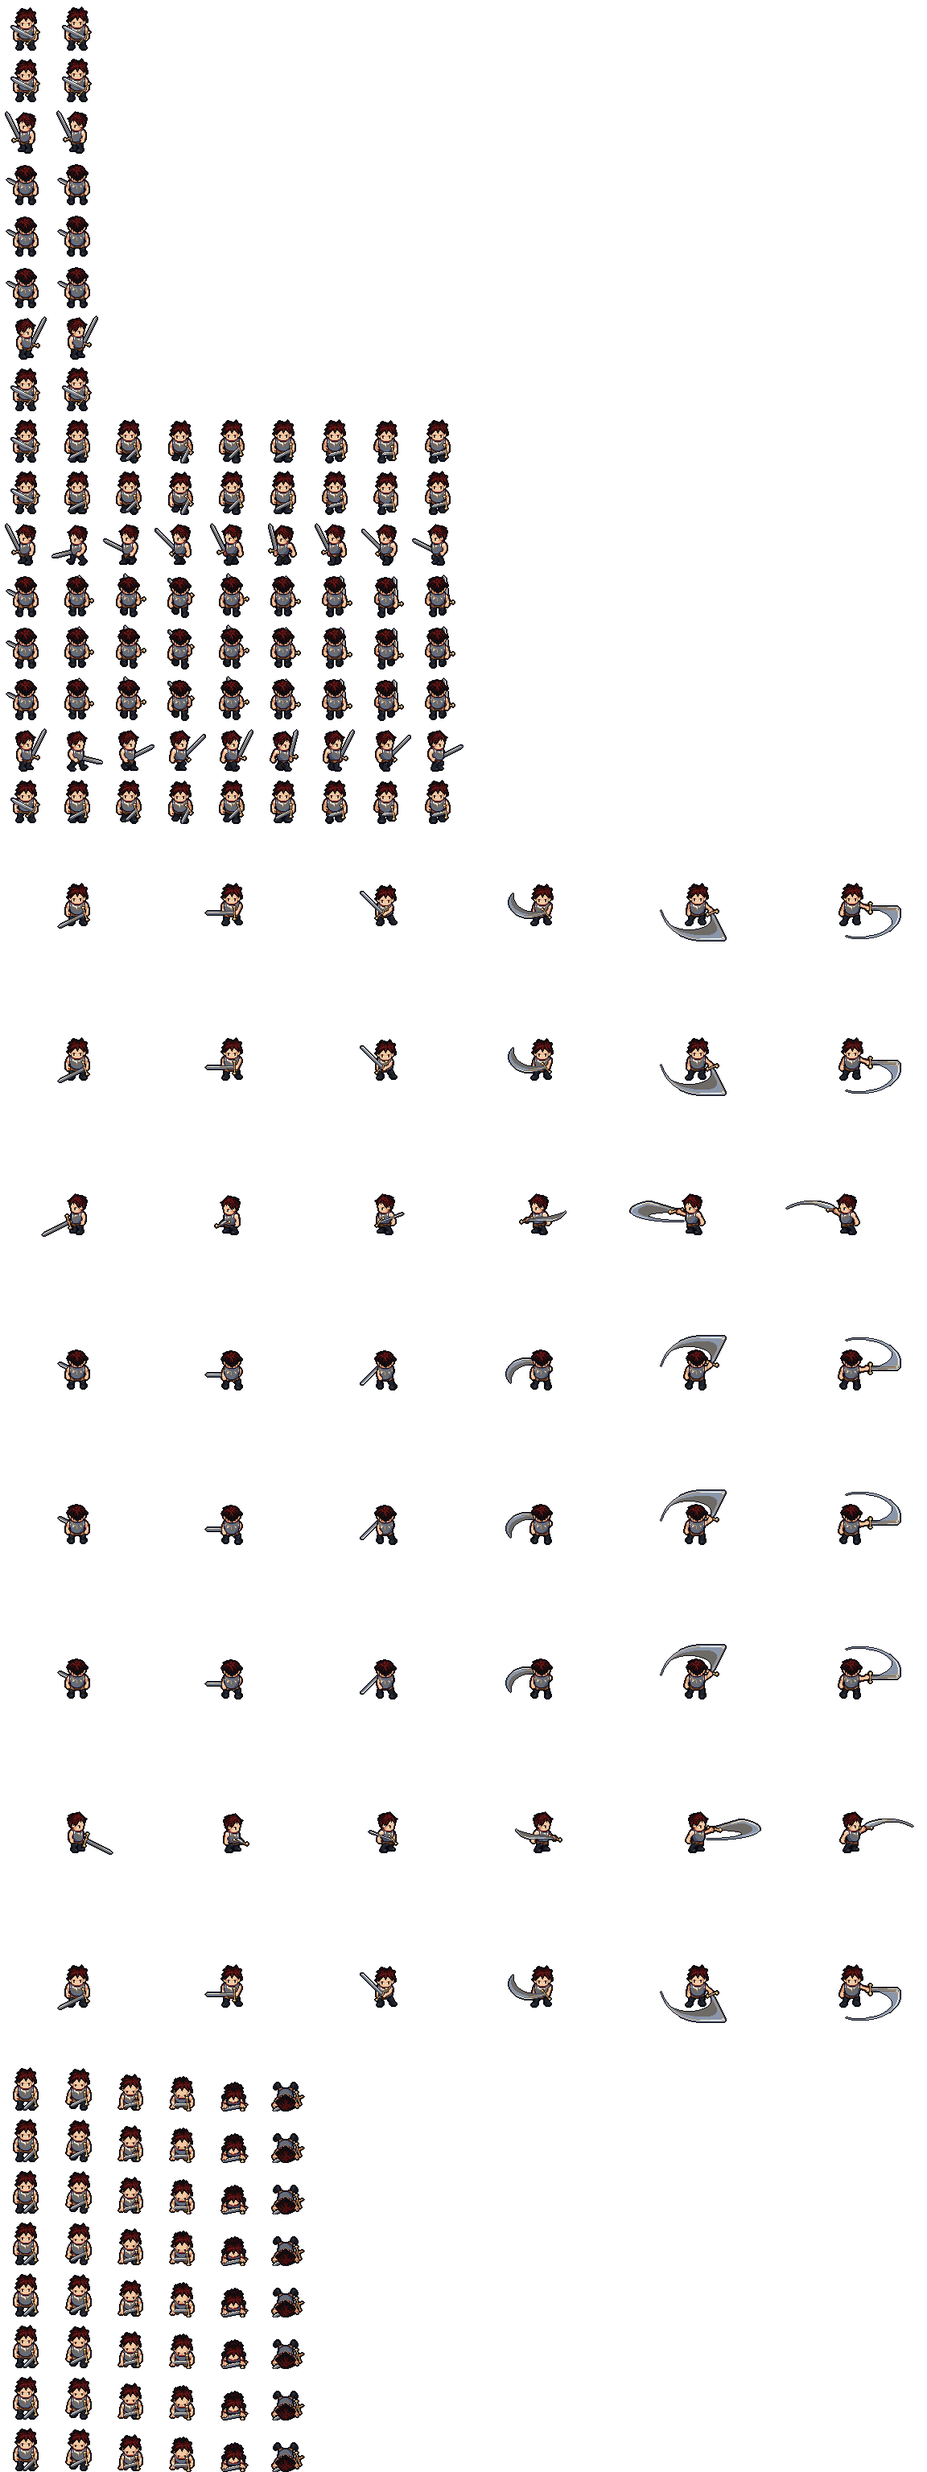
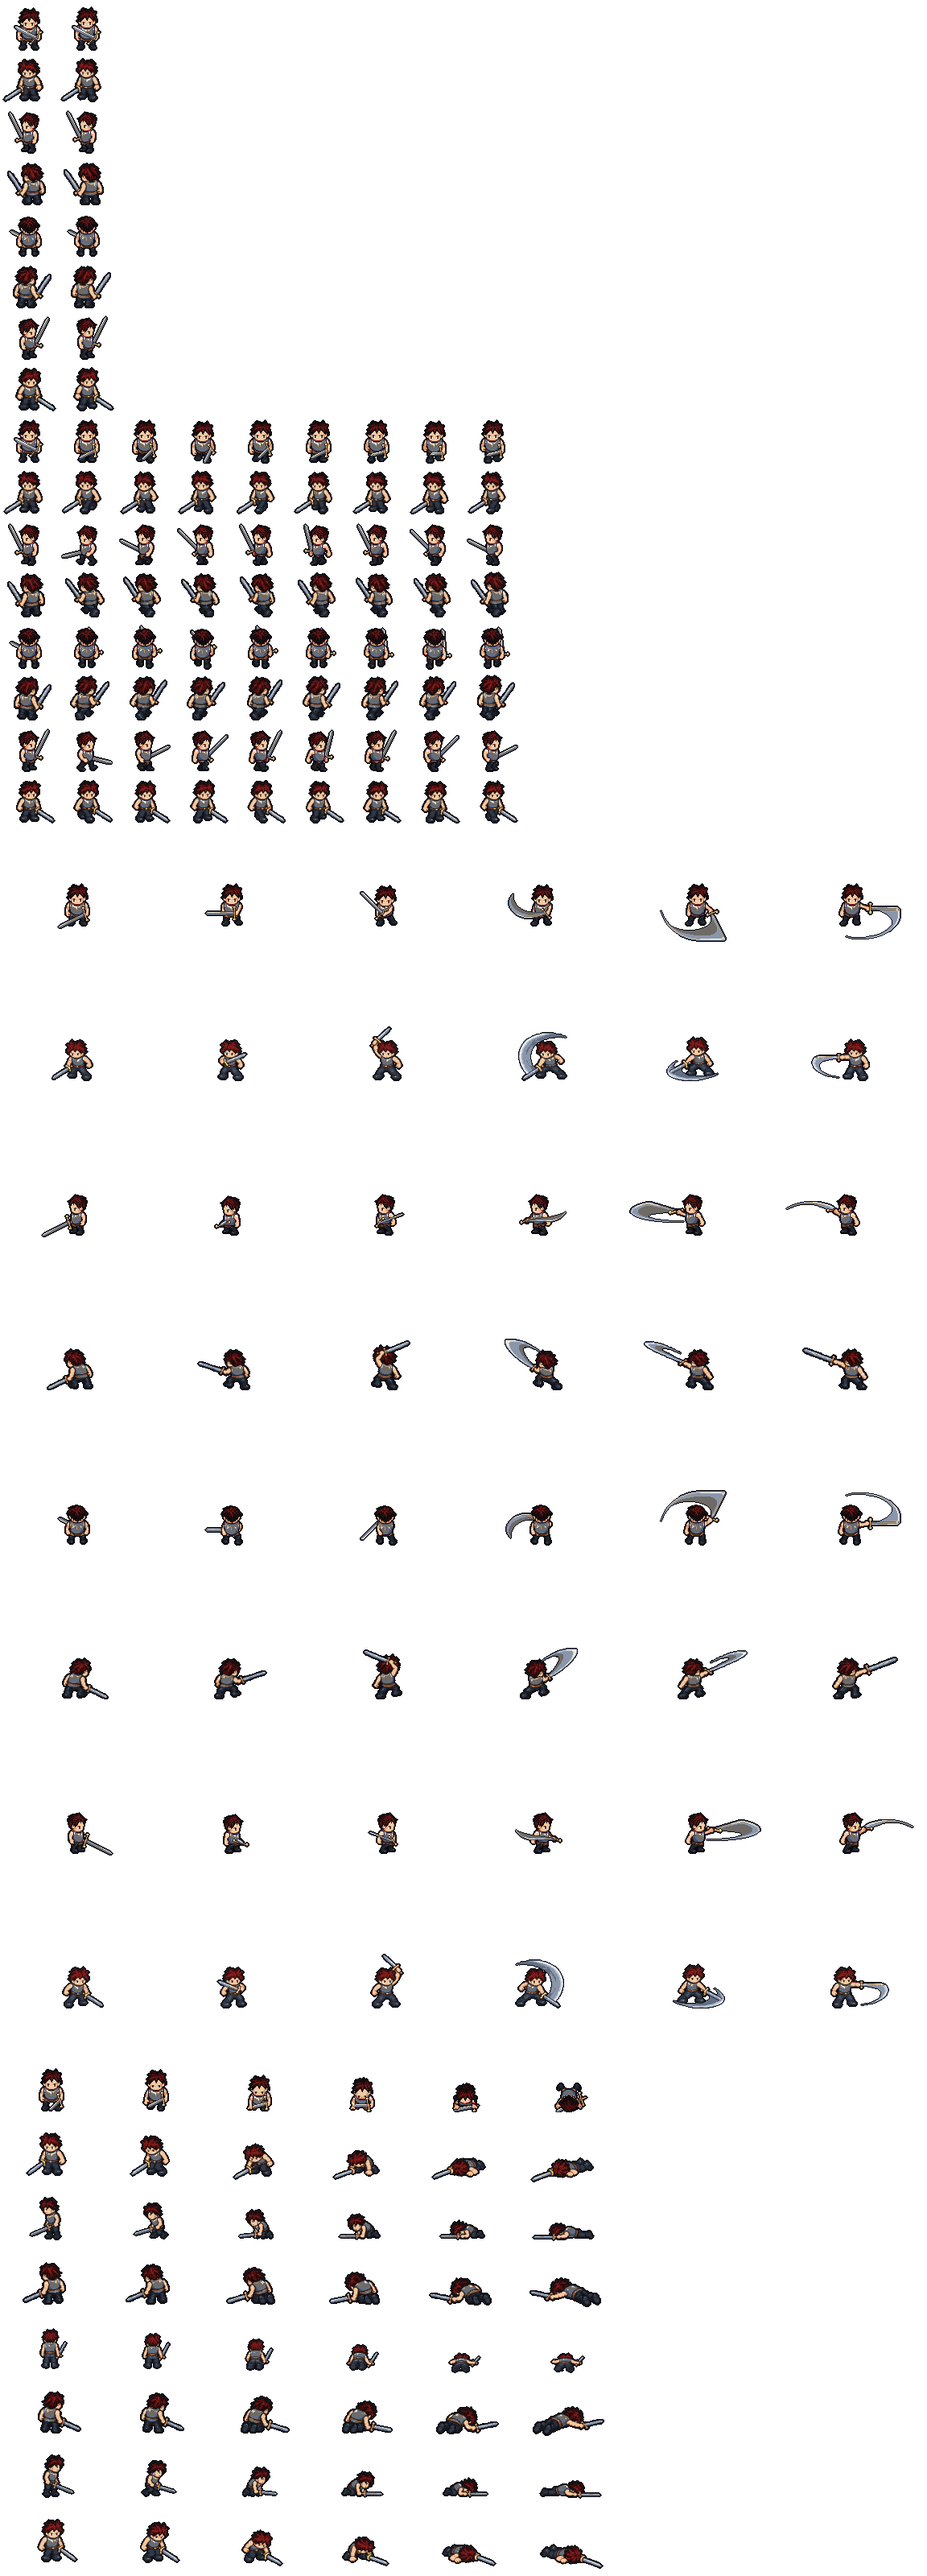
DEEP16: the fighter in all eight facings, from the art desk's ART-62
The second LPC figure through tools/lpc-diag-sheet.py: npcfighter_p0's SE
(SW mirrored) and NE (NW mirrored) in every row, and E's (W mirrored) and N's
Hurt, from ART-62's six pages (deep16/_src/npcfighter/ART-62/). Every LPC
drawing stays as it was (S, W, N, E idle, walk and attack; S hurt). The
trooper's spec and sheet are unchanged (pixelate.py p0 trooper reproduces
trooper_p0 byte for byte; p0 npcfighter reproduces this cut).

The fighter's spec, read off the pages: `chan` on every page (his navy
trousers fell out of the default mask); a cut line where Attack 1's sword tip
touches Attack 2's boot; `stands` for the attack page, which has no standing
frame (scaled by the head: hair top to brow); N's Hurt scaled `against` the
N idle (this LPC figure stands 50 from behind, 54 from the front); and the
idle and walk cells 72 wide about the anchor, as the hurt cell grows, so SE's
low sword is not clipped.

The show takes `&sheet=` as the row gallery does, so a sheet no foe wears
plays every row twice in a fight: dev/bench16.py trooper mode=show
sheet=npcfighter_p0 (all ok). Eyes row eyes-fighter-eight-1015.

Griz, 10-15: "1 yes" (the LPC route, ART-62 to ART-67 the same way).

diff --git a/js/eyes.js b/js/eyes.js
@@ -257,6 +257,9 @@
     'eyes-trooper-ne-1015': { pri: 2, group: G2, title: 'The dwarf trooper’s NE and NW: the last of ART-61, so he is drawn in all eight facings (10-15)', pt: 'the Snoot mode §14 (tools/lpc-diag-sheet.py; deep16/art/trooper_p0; snoot-mode/js/view.js V.FULL8) · eyes',
       url: 'deep16/?gallery&shelf=creatures&rows=trooper&fresh=1',
       look: 'The trooper. The full stop turns him through all eight: NE and NW are new for every row (IDLE, WALK, ATTACK, HURT, PRONE), seen from behind-right with the mace in his right hand, on screen-right as N and E carry it. His ATTACK from NE winds up to the left and strikes out to the right, as N’s does (the art desk’s alternate attack, the one that couldn’t get the hand right, is kept aside, not used). Judge the turn N to NE to E: one figure, one size. You passed SE, SW and the falls already (“1 yes”). In the Snoot (snoot-mode/), Newland’s and the Dominion’s troopers on the map now face NE and NW truly too.' },
+    'eyes-fighter-eight-1015': { pri: 2, group: G2, title: 'The fighter in all eight facings: the art desk’s ART-62, the second LPC figure (10-15)', pt: 'the bestiary §25 (tools/lpc-diag-sheet.py; deep16/art/npcfighter_p0; snoot-mode/js/view.js V.FULL8) · eyes',
+      url: 'deep16/?show=trooper&sheet=npcfighter_p0&fresh=1',
+      look: 'The fighter -- the class fighter’s look in DEEP16 (the Pocket DM’s, deep16/?npc=fighter) and Newland’s and GreyFang’s men in the Snoot. On the test ground the troopers wear his sheet, every row twice. SE and SW are new in every row: three-quarter front, the sword held low on screen-right. NE and NW are new too: from behind-right, the sword raised on screen-right. E, W and N now fall forward (HURT is his death); S keeps LPC’s own fall, on his back. Judge the turns S to SE to E and N to NE to E: one figure, one size (NE’s hair stands a little taller than N’s, as drawn). NE’s ATTACK ends on a straight blade, not LPC’s crescent. N’s last two falls are foreshortened hard from behind: a body on the ground, or a kneel? Every facing one at a time: deep16/?rows=trooper&sheet=npcfighter_p0, up and down turn it (that page’s eyes column names the trooper’s row: mark this one here). In the Snoot his stacks now face NE and NW truly.' },
     'eyes-snoot-ring-1015c': { pri: 1, group: G2, title: 'THE SNOOT: the ring of commands, the camera a step closer, the ground past the edge, the stacks in formation; AVOID, surprise, the road bonus (10-15)', pt: 'the Snoot mode §15 (snoot-mode/js/view.js, ui.js, rules.js) · eyes',
       url: 'snoot-mode/?fresh',
       look: 'NEW BATTLE. The map opens a step closer than the whole map; the dim ground runs on past every edge, the west, south and pirate roads out of it. The wheel (or + and -) steps the zoom about the mouse, a drag or the arrows pan. Each stack stands in its formation -- a line abreast across its facing, a column in file, the death-watch in a ring -- with a chevron on the side it faces. Click Newland\'s road patrol: a ring of buttons round it -- HOLD, CHARGE?, AVOID, LINE, COLUMN, SQUARE and the two turns (the four get only their orders); AVOID holds and slips a hex away from anything that comes. Resolve days: a fight opens with each side\'s die for surprise (SURPRISE! on a 1 or 2: the unready side taken in the flank in the first round); a unit under AVOID that is come at shows THEY SLIP AWAY or CAUGHT with its roll; the Dominion\'s wagons at the inn avoid. Newland\'s horse in column on the road march two hexes further; foot in column no further.' },

diff --git a/dev/bench16.js b/dev/bench16.js
@@ -575,12 +575,12 @@
   // sleeper wakes it, still prone; HELP on a webbed friend gives its break-free advantage, spent; the class AI wakes a sleeping friend; a Sleep from outside a
   // globe is held off; the cleric's Spiritual Weapon swing on the first ring once it is up
   // the show (mode=show, 10-02: deep16/js/show.js, the test ground): a creature's sheet in a fight, every row twice -- FAIL for a row under two.
-  // python dev/bench16.py grick mode=show [lvl=3] [stone=grey]
+  // python dev/bench16.py grick mode=show [lvl=3] [stone=grey] [sheet=npcfighter_p0: the creatures wear that sheet, 10-15]
   if (get('mode', '') === 'show') {
     var repS = { checks: [], errors: [] };
     try {
       D.seed = seed0 * 7919;
-      var BS = D.show.fight('?show=' + foes.join(',') + '&lvl=' + (get('lvl', '') || 3) + (get('stone', '') ? '&stone=' + get('stone', '') : ''), { bench: true });
+      var BS = D.show.fight('?show=' + foes.join(',') + '&lvl=' + (get('lvl', '') || 3) + (get('stone', '') ? '&stone=' + get('stone', '') : '') + (get('sheet', '') ? '&sheet=' + get('sheet', '') : ''), { bench: true });
       D.battle = BS; BS.enter();
       var resS = drive(BS);
       repS.report = (BS.showReport || []).map(function (x) { return x.replace(/\{\/?[a-z]*\}/g, ''); });

diff --git a/deep16/js/show.js b/deep16/js/show.js
@@ -377,8 +377,11 @@
     var B = new D.Battle(Object.assign({ npc: { foes: foes, party: ['wizard:' + L, 'wizard:' + L, 'fighter:' + L + ':dwarf', 'rogue:' + L + ':human'] }, watch: true,
       familiars: [{ kind: 'bat', by: 'p0-wizard' }, { kind: 'snake', by: 'p1-wizard' }], fightDef: F }, o || {}));
     B.show = true; B.showTally = {}; B.showKind = {}; B.showRipple = get('ripple'); // (&ripple=body|mane: js/looks.js LK.ripple)
+    // &sheet=<name>: the creatures wear that sheet, as on ?rows= -- a sheet no foe wears yet, every row twice in a fight (10-15, the LPC
+    // fighter's: `?show=trooper&sheet=npcfighter_p0`, dev/bench16.py trooper mode=show sheet=npcfighter_p0)
+    var look = get('sheet'); look = look && D.SHEETS && D.SHEETS[look] ? look : null;
     var enter0 = B.enter;
-    B.enter = function () { enter0.apply(this, arguments); SH.setup(this); };
+    B.enter = function () { enter0.apply(this, arguments); if (look) this.units.forEach(function (u) { if (u.side === 'foe') u.sheet = look; }); SH.setup(this); };
     B.finish = function* (res) { this.showReport = SH.report(this); this.card(this.showReport, 1e9); yield* D.Battle.prototype.finish.call(this, res); };
     return B;
   };

diff --git a/deep16/index.html b/deep16/index.html
@@ -77,7 +77,7 @@
 <script src="js/art.js?v=e1ce4cf012"></script>
 <script src="data/cavern.js?v=647c1a184a"></script>
 <script src="data/maps.js?v=971b4fe9e6"></script>
-<script src="data/sprites.js?v=1d8c8dfdfe"></script>
+<script src="data/sprites.js?v=90b8bea152"></script>
 <script src="js/sprites.js?v=82883d13a8"></script>
 <script src="js/save.js?v=65142ffd7b"></script>
 <script src="data/spells.js?v=84aed2ba83"></script>
@@ -141,9 +141,9 @@
 <script src="data/stages/wizard3.js?v=6071f209c6"></script>
 <script src="js/gallery.js?v=a9c90975b8"></script>
 <script src="js/embed.js?v=fde3abdebd"></script>
-<script src="js/show.js?v=63408c500e"></script>
+<script src="js/show.js?v=8e550011f4"></script>
 <script src="js/skyshow.js?v=7151daab7a"></script>
-<script src="../js/eyes.js?v=9bedc41a01"></script>
+<script src="../js/eyes.js?v=196b62f89c"></script>
 <script src="js/onegallery.js?v=175d0ae3bd"></script>
 <script src="js/main.js?v=39cd8f6139"></script>
 </body>

diff --git a/deep16/data/sprites.js b/deep16/data/sprites.js
@@ -6428,7 +6428,7 @@
 }
 },
 "npcfighter_p0": {
-"image": "art/npcfighter_p0.png?v=3fbd1bc80c",
+"image": "art/npcfighter_p0.png?v=ade9e8fdfe",
 "fw": 64,
 "fh": 64,
 "ax": 32,
@@ -6437,18 +6437,18 @@
 "anims": {
 "idle": {
 "y": 0,
-"fw": 64,
+"fw": 72,
 "fh": 64,
-"ax": 32,
+"ax": 36,
 "ay": 61,
 "frames": 2,
 "fps": 6
 },
 "walk": {
 "y": 512,
-"fw": 64,
+"fw": 72,
 "fh": 64,
-"ax": 32,
+"ax": 36,
 "ay": 61,
 "frames": 9,
 "fps": 10
@@ -6464,12 +6464,45 @@
 },
 "hurt": {
 "y": 2560,
-"fw": 64,
-"fh": 64,
-"ax": 32,
+"fw": 128,
+"fh": 80,
+"ax": 64,
 "ay": 61,
 "frames": 6,
 "fps": 10
+}
+},
+"diag": {
+"by": "tools/lpc-diag-sheet.py",
+"from": "ART-62",
+"drawn": [
+"SE idle/walk",
+"SE attack",
+"SE hurt",
+"NE idle/walk/attack/hurt",
+"E hurt",
+"N hurt"
+],
+"owed": [],
+"lpc_cells": {
+"idle": [
+64,
+64,
+32,
+61
+],
+"walk": [
+64,
+64,
+32,
+61
+],
+"hurt": [
+64,
+64,
+32,
+61
+]
 }
 }
 },

diff --git a/tools/lpc-diag-sheet.py b/tools/lpc-diag-sheet.py
@@ -62,7 +62,8 @@ NUM = lambda k: [str(i + 1) for i in range(k)]
 # Each figure: its pages, each read off the page by hand -- the text boxes (a blob wholly inside one is lettering: the row names, and a
 # strip the page's width under each row, where its numbers stand), and the rows (the sheet's anim, band x0 y0 x1 y1, its number strip
 # y0 y1, the numbers). `view` is the facing the page draws; `ref` the page's standing frame its scale is read from. `owed` is what the art
-# desk has not sent yet: those facings stay as pixelate.py lays them.
+# desk has not sent yet: those facings stay as pixelate.py lays them. A page may also carry sheetrows' own `chan` (the mask's test) and
+# `cuts` (a line cleared where two frames touch), and `stands` (ART-62's attack page, which has no standing frame).
 FIGS = {
     'trooper': dict(                                          # ART-61, 10-15: all four pages (deep16/_src/trooper/ART-61/)
         dir='trooper/ART-61',
@@ -93,6 +94,46 @@ FIGS = {
                          text=[(0, 385, 140, 450), (150, 524, 2137, 565)],
                          rows=[('hurt', (150, 285, 2137, 524), (524, 565), NUM(6))]),
         },
+        owed={}),
+    # (chan on every page: the fighter's trousers are navy, 20-37 off the page's navy in one channel and not grey, so the default mask
+    # cut them out; the page's own navy strays 9 at most)
+    'npcfighter': dict(                                       # ART-62, 10-15: six pages (deep16/_src/npcfighter/ART-62/); HEAD 1 split in three
+        dir='npcfighter/ART-62',
+        pages={
+            'H1P1': dict(file='ART-62_HEAD-1_PAGE-1.png', view='SE', ref=('idle', '1'), chan=14,          # SE: Idle 2, Walk 9
+                         text=[(0, 200, 150, 260), (0, 520, 150, 580), (150, 356, 1981, 392), (150, 678, 1981, 715)],
+                         rows=[('idle', (150, 100, 1981, 356), (356, 392), NUM(2)),
+                               ('walk', (150, 420, 1981, 678), (678, 715), NUM(9))]),
+            # (no standing frame: Attack 1 is a crouch. `stands` is what a standing figure would stand on this page, read off the head --
+            # the hair's top to the brow is 76 page px in Attack 1 and 2 and 56 in H1P1's idle, which stands 217: 217 * 76 / 56. The crouch
+            # by itself (284) would make the head 4% big. The cut: Attack 1's sword tip touches Attack 2's boot)
+            'H1P2': dict(file='ART-62_HEAD-1_PAGE-2.png', view='SE', ref=('attack', '1'), stands=294, chan=14,   # SE: Attack 6
+                         text=[(0, 370, 175, 420), (175, 568, 2172, 620)],
+                         rows=[('attack', (175, 150, 2172, 573), (574, 618), NUM(6))],
+                         cuts={'attack': [((464, 520), (464, 552))]}),
+            'H1P3': dict(file='ART-62_HEAD-1_PAGE-3.png', view='SE', ref=('hurt', '1'), chan=14,          # SE: Hurt 6
+                         text=[(0, 345, 175, 415), (175, 532, 2172, 570)],
+                         rows=[('hurt', (175, 200, 2172, 570), (545, 568), NUM(6))]),
+            'H2P1': dict(file='ART-62_HEAD-2_PAGE-1.png', view='NE', ref=('idle', '1'), chan=14,          # NE: Idle 2, Walk 9, Attack 6, Hurt 6
+                         text=[(0, 115, 170, 165), (0, 320, 170, 365), (0, 550, 170, 592), (0, 765, 170, 808),
+                               (170, 226, 1697, 252), (170, 436, 1697, 462), (170, 663, 1697, 690), (170, 871, 1697, 895)],
+                         rows=[('idle', (170, 40, 1697, 226), (226, 252), NUM(2)),
+                               ('walk', (170, 256, 1697, 436), (436, 462), NUM(9)),
+                               ('attack', (170, 466, 1697, 663), (663, 690), NUM(6)),
+                               ('hurt', (170, 694, 1697, 871), (871, 895), NUM(6))]),
+            'H4P1': dict(file='ART-62_HEAD-4_PAGE-1.png', view='E', ref=('hurt', '1'), chan=14,           # E: Hurt 6
+                         text=[(0, 340, 175, 410), (175, 560, 2069, 610)],
+                         rows=[('hurt', (175, 250, 2069, 560), (560, 610), NUM(6))]),
+            # (against N: this LPC figure stands 50 from behind and 54 from the front -- the front's hair spikes -- so Hurt 1 measured
+            # against S would stand 4 px over the N idle it follows. The sword is on screen-right, where LPC's N walk and S hurt carry
+            # it: no flip)
+            'H5P1': dict(file='ART-62_HEAD-5_PAGE-1.png', view='N', ref=('hurt', '1'), against='N', chan=14,   # N: Hurt 6
+                         text=[(0, 360, 175, 432), (175, 597, 2170, 640)],
+                         rows=[('hurt', (175, 230, 2170, 597), (597, 640), NUM(6))]),
+        },
+        # (SE's sword held low and out reaches 33 px right of the torso in Idle and Walk 1, past LPC's 64-px cell: those cells grow about
+        # the anchor as the hurt cell does, so no row's pixels move against the foot)
+        cells={'idle': (72, 64), 'walk': (72, 64)},
         owed={}),
 }
 
@@ -269,16 +310,20 @@ def cut_pages(fig, ref_h, cellof, pal, old, tone=True, overlays=None, report=Non
     views, clipped = {}, []
     for L, pg in cfg['pages'].items():
         over = [] if overlays is not None else None
-        cuts = SR.cut_sheet(os.path.join(SRC, cfg['dir'], pg['file']), pg, overlay=over, tag=L)
+        cuts = SR.cut_sheet(os.path.join(SRC, cfg['dir'], pg['file']), pg, cuts=pg.get('cuts'), overlay=over, tag=L)
         if overlays is not None:
             overlays[L] = over[0]
         ran, rnm = pg['ref']
         rim = dict((nm, im) for nm, im, _ in cuts[ran])[rnm]
-        k = height(np.asarray(rim)) / float(ref_h)            # page px a game px (the cut carries the page's own drawn outline: LPC's own)
+        stands = pg.get('stands', height(np.asarray(rim)))    # (a page with no standing frame says what one would stand, by hand)
+        to_h = ref_h if 'against' not in pg else height(old['idle'][FACINGS.index(pg['against'])][0]) - 2
+        k = stands / float(to_h)                              # page px a game px (the cut carries the page's own drawn outline: LPC's own)
         src, ref = page_moments(cuts, pg), view_moments(old, TONE_REF[pg['view']])
         if report is not None:
-            report.append('%s (%s): %s %s stands %d px of page -> k %.3f; tone L %.1f/%.1f -> %.1f/%.1f, a %+.1f, b %+.1f (to %s)'
-                          % (L, pg['view'], ran, rnm, height(np.asarray(rim)), k, src[0][0], src[1][0], ref[0][0], ref[1][0],
+            report.append('%s (%s): %s %s stands %d px of page%s -> k %.3f%s; tone L %.1f/%.1f -> %.1f/%.1f, a %+.1f, b %+.1f (to %s)'
+                          % (L, pg['view'], ran, rnm, stands, ' (by hand: it stands %d)' % height(np.asarray(rim)) if 'stands' in pg else '',
+                             k, ' (against the %s idle, %d)' % (pg['against'], to_h) if 'against' in pg else '',
+                             src[0][0], src[1][0], ref[0][0], ref[1][0],
                              ref[0][1] - src[0][1], ref[0][2] - src[0][2], '+'.join(TONE_REF[pg['view']])))
         for an, frs in cuts.items():
             cell = cellof(an)
@@ -318,6 +363,8 @@ def build(fig, meta, sheet, colours=None, overlays=None, report=None, tone=True)
     if any(an == 'hurt' for an, _ in w):
         fw, fh = HURT_CELL
         new_dims['hurt'] = (fw, fh, fw // 2, od['hurt'][3])
+    for an, (fw, fh) in FIGS[fig].get('cells', {}).items():   # a figure's own bigger cells, the same way (the fighter's low sword, ART-62)
+        new_dims[an] = (fw, fh, fw // 2, od[an][3])
     pal = own_palette(sheet) if (colours or COLOURS) == 'own' else None
     views, clipped = cut_pages(fig, ref_h, lambda an: new_dims[an], pal, old, tone, overlays, report)
     frames = {an: [[recell(fr, od[an], new_dims[an]) if new_dims[an] != od[an] else fr for fr in old[an][f]] for f in range(8)]

diff --git a/dev/bench16.py b/dev/bench16.py
@@ -111,7 +111,7 @@ def main(argv):
     for j in jobs:
         L = lvl or (j.split(',')[0].split(':')[1] if ':' in j.split(',')[0] else '5')
         params = {'foes': j, 'lvl': L, 'n': kw.get('n', '10'), 'seed': kw.get('seed', '1')}
-        for k in ('vs', 'fight', 'guests', 'sky', 'mode', 'ward', 'plain', 'avghp', 'stone', 'raw', 'climb', 'flvl', 'measure', 'plus', 'callN', 'dbl', 'toy', 'laugh', 'reads'):  # (callN: the Harbinger's pack held at a size, 10-08)
+        for k in ('vs', 'fight', 'guests', 'sky', 'mode', 'ward', 'plain', 'avghp', 'stone', 'raw', 'climb', 'flvl', 'measure', 'plus', 'callN', 'dbl', 'toy', 'laugh', 'reads', 'sheet'):  # (callN: the Harbinger's pack held at a size, 10-08) (sheet: the show's foes wear it, 10-15)
             if kw.get(k):
                 params[k] = kw[k]
         if kw.get('log'):
